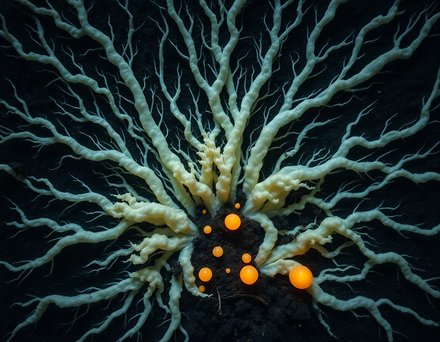
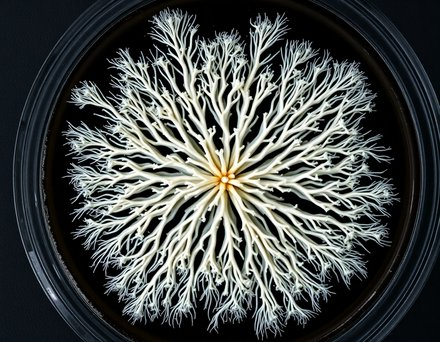
cards(art): round-4 options WIP — petri-dish Hyphal Extension
Checkpoint: petri-dish-inspired white mycelium culture options for the
very-common Hyphal Extension card (radial/concentric/glowing-dish
variants). Apical Drive (far-reaching strand), Saprotrophic Digest
(digestion/energy) and Sclerotial Seal (realistic) still generating.
Generator: scripts/gen_card_redos4.py.

Claude-Session: https://claude.ai/code/session_01YCR2gkiAtGPrFY5YjFaZn2

diff --git a/scripts/gen_card_redos4.py b/scripts/gen_card_redos4.py
@@ -1,0 +1,90 @@
+#!/usr/bin/env python3
+# Round-4 redos with per-card notes:
+#  hyphal-extension : petri-dish-inspired, 10 VARIED options (very common card)
+#  apical-drive     : a single hyphal strand reaching far
+#  saprotrophic-digest : more digestion / energy focused
+#  sclerotial-seal  : more realistic (keep autumn leaves)
+import os, json, time, subprocess, tempfile
+from pathlib import Path
+from PIL import Image
+
+ROOT = Path(__file__).resolve().parents[1]
+OUTDIR = ROOT / "assets" / "card_options"
+OUTDIR.mkdir(parents=True, exist_ok=True)
+CA = "/root/.ccr/ca-bundle.crt"
+TOKEN = os.environ.get("REPLICATE_API_TOKEN", "").strip()
+LOG = os.environ.get("OPTLOG", "/tmp/redo4.log")
+def log(m):
+    with open(LOG, "a") as f: f.write(m + "\n")
+    print(m, flush=True)
+
+NOMUSH = "vegetative white and cream fungal mycelium, fine thread-like hyphae only, absolutely no mushrooms, no fruiting bodies, no caps or stems"
+
+REDOS = {
+ # 10 varied petri-dish-inspired takes — radial white mycelium cultures
+ "hyphal-extension": [
+   f"top-down view of a round petri dish, a circular colony of {NOMUSH} radiating outward across dark agar, feathery white growth front, macro photography, highly detailed, no text",
+   f"a petri dish culture of white mycelium with delicate concentric growth rings spreading to the rim, dark agar, soft studio light, scientific macro, {NOMUSH}, no text",
+   f"extreme macro of the advancing margin of a white mycelial colony on dark agar, fine cottony hyphae front creeping outward, {NOMUSH}, shallow depth of field, no text",
+   f"a glowing petri dish, {NOMUSH} radiating from the centre with subtle bioluminescent teal and amber accents in the agar, dark background, atmospheric fungal-fantasy card art, painterly, no text",
+   f"overhead shot of a white cottony mycelium colony filling a dark culture dish, rich fine detail, naturalistic, {NOMUSH}, no text",
+   f"a petri dish where white mycelium radiates outward toward tiny glowing amber food specks around the rim, dark agar, macro, {NOMUSH}, no text",
+   f"several small white mycelial colonies merging into one across a dark petri dish, fine hyphae bridging the gaps, macro, {NOMUSH}, no text",
+   f"a dramatic dark petri dish with a luminous fine white mycelial web spreading edge to edge, moody lighting, atmospheric card art, {NOMUSH}, no text",
+   f"a pristine circular white mycelium colony on black agar, perfect radial symmetry, delicate filaments, elegant scientific macro, {NOMUSH}, no text",
+   f"a half-grown white mycelium culture spreading across a dark dish, one dense side and a fine reaching front on the other, macro, {NOMUSH}, no text",
+ ],
+ "apical-drive": [
+   f"a single long white hyphal strand of mycelium stretching and reaching far across dark soil toward a distant faint amber glow, elongated, directional, {NOMUSH}, atmospheric, dark background, no text",
+   f"macro of one lone white mycelial thread extending a long way into the darkness, its fine growing tip reaching forward, dark soil, {NOMUSH}, no text",
+   f"a single white hyphal cord reaching dramatically across a wide dark gap toward a far point of light, dynamic long composition, {NOMUSH}, no text",
+ ],
+ "saprotrophic-digest": [
+   f"white mycelium enveloping and dissolving dark decaying matter, glowing amber energy being drawn up the {NOMUSH} threads, digestion and energy release, dark background, atmospheric fungal-fantasy card art, painterly, no text",
+   f"extreme macro of enzymatic digestion — {NOMUSH} breaking down rotting organic matter with glowing amber nutrient droplets seeping out and flowing up the threads, realistic, no text",
+   f"warm amber energy surging up a network of {NOMUSH} from a dark decomposing log, a sense of nutrients converted to energy, glowing, atmospheric, dark background, no text",
+ ],
+ "sclerotial-seal": [
+   f"realistic photograph of a hard dark irregular fungal sclerotium (a compacted tuber-like knot) half-buried among fallen autumn oak and maple leaves on damp forest soil, naturalistic, detailed, shallow depth of field, no text",
+   f"realistic macro of a hardened dark sclerotium sealing over a food store, surrounded by orange and brown autumn leaves and damp earth, natural light, photographic, no text",
+   f"a realistic hard knobbly fungal sclerotium nestled in a bed of autumn leaves, protecting a cache, dark rich soil, naturalistic forest-floor photography, detailed, no text",
+ ],
+}
+
+def curl_json(a):
+    r=subprocess.run(["curl","-sS","--max-time","60","--cacert",CA]+a,capture_output=True,text=True)
+    try: return json.loads(r.stdout)
+    except Exception: return {"_raw":r.stdout[:200]}
+def create(p):
+    body=json.dumps({"input":{"prompt":p,"aspect_ratio":"4:3","num_outputs":1,"output_format":"png"}})
+    return curl_json(["-H",f"Authorization: Bearer {TOKEN}","-H","Content-Type: application/json","-d",body,
+                      "https://api.replicate.com/v1/models/black-forest-labs/flux-schnell/predictions"])
+def poll(u):
+    for _ in range(90):
+        d=curl_json(["-H",f"Authorization: Bearer {TOKEN}",u]); st=d.get("status")
+        if st=="succeeded": return d
+        if st in ("failed","canceled"): return d
+        time.sleep(2)
+    return {"status":"timeout"}
+def save_jpg(url,dest,width=440,q=85):
+    tmp=tempfile.mktemp(suffix=".png"); subprocess.run(["curl","-sS","--max-time","90","--cacert",CA,"-o",tmp,url],check=True)
+    im=Image.open(tmp).convert("RGB"); im=im.resize((width,round(im.height*width/im.width)),Image.LANCZOS)
+    im.save(dest,"JPEG",quality=q,optimize=True); os.remove(tmp)
+
+done=0; fail=[]
+for slug,prompts in REDOS.items():
+    for i,p in enumerate(prompts,start=1):
+        dest=OUTDIR/f"{slug}-{i}.jpg"
+        if dest.exists(): log(f"skip {dest.name}"); continue
+        for _ in range(6):
+            d=create(p)
+            if str(d.get("status"))=="429": ra=int(d.get("retry_after",10)); log(f"429 wait {ra+2}"); time.sleep(ra+2); continue
+            break
+        get=(((d.get("urls") or {}).get("get")) or "")
+        if not get: log(f"FAIL create {dest.name}: {json.dumps(d)[:150]}"); fail.append(dest.name); continue
+        r=poll(get); out=r.get("output"); url=out[0] if isinstance(out,list) and out else (out if isinstance(out,str) else "")
+        if not url: log(f"FAIL poll {dest.name}: {r.get('status')}"); fail.append(dest.name); continue
+        try: save_jpg(url,str(dest)); done+=1; log(f"wrote {dest.name}")
+        except Exception as e: log(f"FAIL save {dest.name}: {e}"); fail.append(dest.name)
+        time.sleep(11)
+log(f"REDO4 DONE done={done} fail={fail}")
